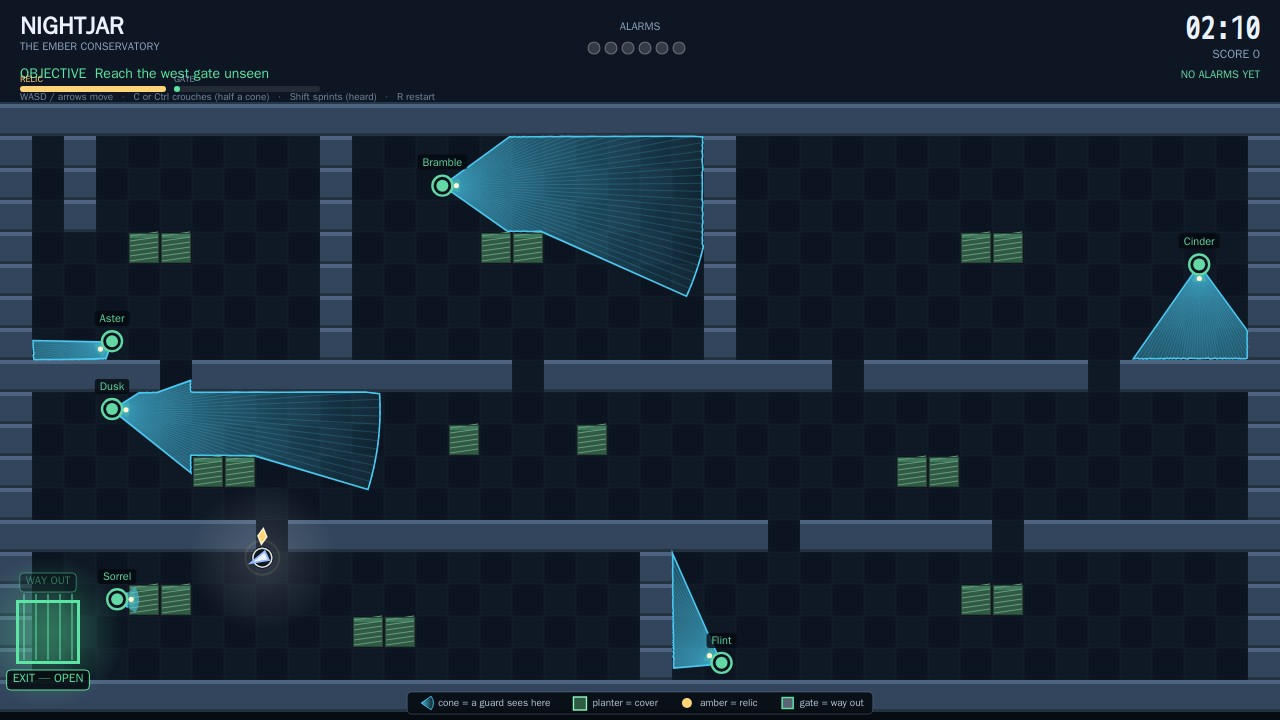
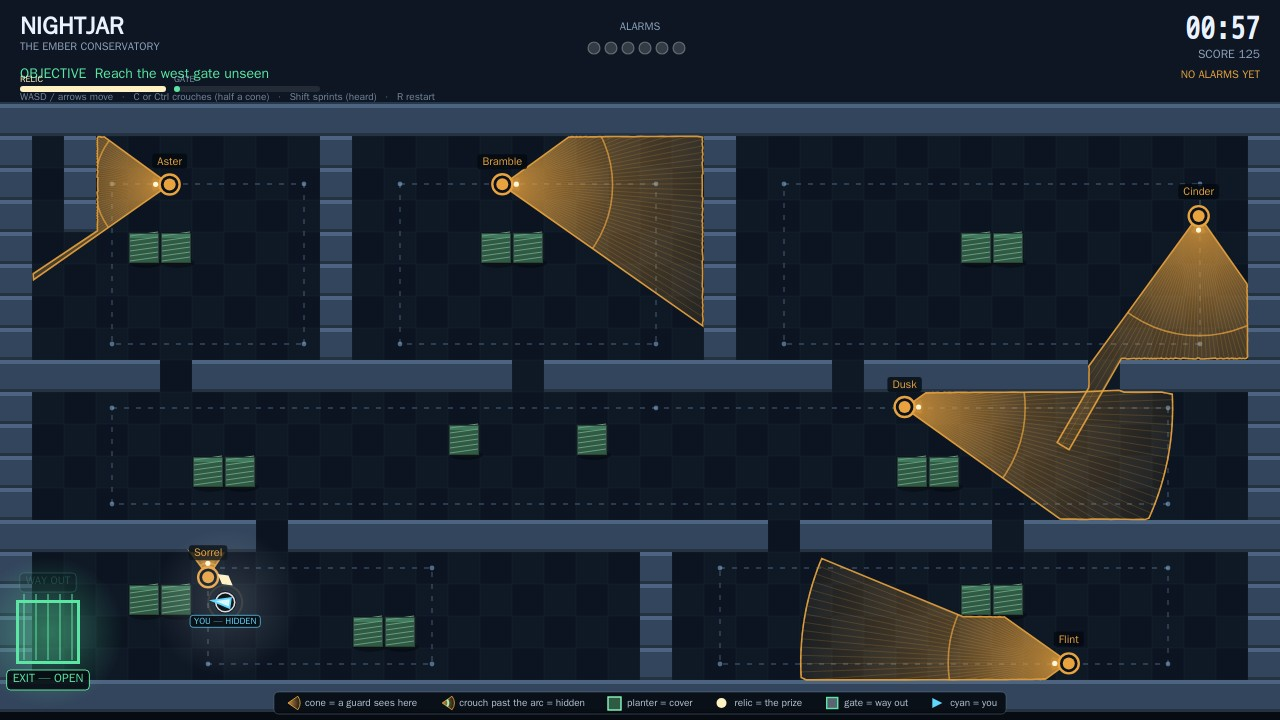
Nightjar: two-zone cones show the crouch rule, patrols on the floor, Sorrel patrols free rows

diff --git a/game/src/render.js b/game/src/render.js
@@ -63,6 +63,12 @@ function drawMap(ctx, world) {
   for (const c of level.covers) {
     const x = c.col * TILE;
     const y = HUD_H + c.row * TILE;
+    // A soft contact shadow, so a planter sits ON the floor instead of floating over it. This one
+    // line is most of the difference between "flat tile map" and "a room seen from above".
+    ctx.fillStyle = 'rgba(0,0,0,0.34)';
+    ctx.beginPath();
+    ctx.ellipse(x + TILE / 2 + 2, y + TILE - 1, TILE * 0.52, 5, 0, 0, Math.PI * 2);
+    ctx.fill();
     ctx.fillStyle = PALETTE.cover;
     ctx.fillRect(x + 1, y + 1, TILE - 2, TILE - 2);
     ctx.fillStyle = PALETTE.coverTop;
@@ -165,11 +171,9 @@ function drawExit(ctx, world) {
   // The gate's caption states the rule, not just the state: a locked exit that never says why reads
   // as scenery, and the judge's first criterion is an exit to reach unseen.
   plateLabel(ctx, open ? 'EXIT — OPEN' : 'EXIT — SEALED', x, y + EXIT.height / 2 + 18, colour, 12);
-  if (!open) {
-    // The rule is stated on a second line rather than in one long label, so the plate stays on screen
-    // at the map's west edge instead of running off it.
-    plateLabel(ctx, 'OPENS WITH THE RELIC', x, y - EXIT.height / 2 - 16, PALETTE.relic, 10);
-  }
+  // The locking rule lives in the HUD objective line, not in a floating plate: a second label above
+  // the gate ran into a guard's name plate at the map's west edge, and two overlapping captions
+  // read as a bug. One plate per object, one place for rules.
   if (open) {
     // A direction arrow so the way out is never hunted for after the pickup.
     const pulse2 = 0.55 + 0.45 * Math.sin(world.time * 5);
@@ -273,6 +277,35 @@ function drawCone(ctx, world, guard) {
   for (const [px, py] of points) ctx.lineTo(px, py);
   ctx.closePath();
   ctx.fill();
+
+  // The cone has two zones, and the rule that separates them is the one a player most needs to see:
+  // inside the near arc a crouch does not save you, beyond it a crouch does. Drawing only one flat
+  // beam made the game look broken whenever the thief was labelled hidden while standing in light,
+  // so the near arc gets a bright rim and the far zone a dimmed wash: the safe half is visibly safer.
+  const near = Math.max(12, Math.min(range, longest) * 0.45);
+  ctx.save();
+  ctx.beginPath();
+  ctx.moveTo(guard.x, guard.y);
+  for (const [px, py] of points) ctx.lineTo(px, py);
+  ctx.closePath();
+  ctx.clip();
+  // Light the near zone from the guard outward, so the half of the beam a crouch cannot cross reads
+  // as the dangerous half. Painting inside the clipped silhouette (rather than as its own annulus)
+  // keeps every edge on the wall the cone actually stops at, and scales with a short cone too.
+  const inner = ctx.createRadialGradient(guard.x, guard.y, 2, guard.x, guard.y, near);
+  inner.addColorStop(0, `${colour}55`);
+  inner.addColorStop(1, `${colour}00`);
+  ctx.fillStyle = inner;
+  ctx.beginPath();
+  ctx.arc(guard.x, guard.y, near, 0, Math.PI * 2);
+  ctx.fill();
+  // The near arc itself: the line a crouch cannot cross.
+  ctx.beginPath();
+  ctx.arc(guard.x, guard.y, near, 0, Math.PI * 2);
+  ctx.strokeStyle = `${colour}b8`;
+  ctx.lineWidth = 1.6;
+  ctx.stroke();
+  ctx.restore();
 
   // Fine radial striations, so the shape reads as a beam of light rather than a flat polygon.
   ctx.save();
@@ -553,7 +586,7 @@ function drawHud(ctx, world) {
   ctx.fillStyle = world.player.hasRelic ? PALETTE.exitOpen : PALETTE.relic;
   const objective = world.player.hasRelic
     ? 'OBJECTIVE  Reach the west gate unseen'
-    : 'OBJECTIVE  Take the Ember Relic from the gallery';
+    : 'OBJECTIVE  Take the Ember Relic — the gate is sealed until you hold it';
   ctx.fillText(objective, 20, 78);
 
   // Objective progress, as two named stages so the bar can never be read as "finished".
@@ -695,6 +728,7 @@ function drawOverlay(ctx, world) {
 function drawFieldNotes(ctx) {
   const items = [
     ['cone = a guard sees here', PALETTE.cone, 'cone'],
+    ['crouch past the arc = hidden', PALETTE.coverSafe, 'arc'],
     ['planter = cover', PALETTE.coverSafe, 'cover'],
     ['relic = the prize', PALETTE.relic, 'dot'],
     ['gate = way out', PALETTE.exitOpen, 'gate'],
@@ -735,6 +769,25 @@ function drawFieldNotes(ctx) {
       ctx.strokeStyle = `${colour}dd`;
       ctx.lineWidth = 1;
       ctx.stroke();
+    } else if (kind === 'arc') {
+      // A small cone with the near arc drawn across it: the legend shows the same rule the map does.
+      const g = ctx.createRadialGradient(x + 2, cy, 1, x + 2, cy, 12);
+      g.addColorStop(0, `${PALETTE.cone}cc`);
+      g.addColorStop(1, `${PALETTE.cone}18`);
+      ctx.fillStyle = g;
+      ctx.beginPath();
+      ctx.moveTo(x + 2, cy);
+      ctx.arc(x + 2, cy, 12, -0.6, 0.6);
+      ctx.closePath();
+      ctx.fill();
+      ctx.strokeStyle = `${PALETTE.cone}dd`;
+      ctx.lineWidth = 1;
+      ctx.stroke();
+      ctx.beginPath();
+      ctx.arc(x + 2, cy, 6, -0.6, 0.6);
+      ctx.strokeStyle = colour;
+      ctx.lineWidth = 2;
+      ctx.stroke();
     } else if (kind === 'cover') {
       ctx.fillStyle = PALETTE.cover;
       ctx.fillRect(x, cy - 6, 13, 13);
@@ -769,6 +822,35 @@ function drawFieldNotes(ctx) {
 }
 
 /**
+ * The patrol lines, drawn only in a staged screenshot. A still frame of a stealth level can show the
+ * cone a guard has now but not the route it walks, and the route is what a player learns: the beat,
+ * the turn, the place the cone will be in two seconds. Dashed, faint, and under the cones, so it
+ * reads as a plan laid on the floor rather than as a wall or a sightline.
+ */
+function drawPatrols(ctx, world) {
+  ctx.save();
+  ctx.setLineDash([5, 7]);
+  ctx.lineWidth = 1.4;
+  ctx.strokeStyle = 'rgba(150,190,235,0.30)';
+  for (const guard of world.guards) {
+    if (!guard.path || guard.path.length < 2) continue;
+    ctx.beginPath();
+    ctx.moveTo(guard.path[0].x, guard.path[0].y);
+    for (let i = 1; i < guard.path.length; i += 1) ctx.lineTo(guard.path[i].x, guard.path[i].y);
+    ctx.closePath();
+    ctx.stroke();
+    // A pip at each waypoint, so a judge counts the corners and sees the shape is a closed beat.
+    for (const p of guard.path) {
+      ctx.beginPath();
+      ctx.arc(p.x, p.y, 2.4, 0, Math.PI * 2);
+      ctx.fillStyle = 'rgba(150,190,235,0.5)';
+      ctx.fill();
+    }
+  }
+  ctx.restore();
+}
+
+/**
  * Draw a whole frame. `view` is the logical 1280x720 area; the caller has already scaled the
  * canvas so that area fills the window.
  */
@@ -776,6 +858,7 @@ export function render(ctx, world) {
   ctx.save();
   ctx.clearRect(0, 0, FIELD.width, FIELD.height);
   drawMap(ctx, world);
+  if (world.shot) drawPatrols(ctx, world);
   if (world.screen !== SCREEN_TITLE) drawExit(ctx, world);
   drawRelic(ctx, world);
   for (const guard of world.guards) drawCone(ctx, world, guard);

diff --git a/game/src/shots.js b/game/src/shots.js
@@ -9,7 +9,7 @@ import { lineOfSight } from './guard.js';
 import { opaqueAt, tileOf } from './level.js';
 import { begin, reset, step } from './world.js';
 
-export const SCENES = ['title', 'relic', 'escape', 'chase'];
+export const SCENES = ['title', 'relic', 'cover', 'escape', 'chase'];
 
 /** Which scene this page was opened for, or null for a live game. */
 export function shotName() {
@@ -167,6 +167,27 @@ export function stageShot(name, world) {
       },
       () => held,
       8,
+    );
+    world.player.crouched = true;
+    return { screen: 'play' };
+  }
+
+  if (name === 'cover') {
+    // Park the thief behind the planter that Sorrel's patrol sweeps past, and hold until the cone is
+    // actually on the planter. The frame then shows the mechanic the whole game rests on: the cone
+    // stops at the planter, and the thief stands in its shadow, unseen.
+    const hide = { x: 6 * TILE + TILE / 2, y: MAP.top + 15 * TILE + TILE / 2 };
+    play(world, (w) => Math.hypot(w.player.x - hide.x, w.player.y - hide.y) < 20, () => hide, 150);
+    world.player.crouched = true;
+    play(
+      world,
+      (w) => {
+        const sorrel = w.guards.find((g) => g.name === 'Sorrel');
+        if (!sorrel) return true;
+        return Math.hypot(sorrel.x - w.player.x, sorrel.y - w.player.y) < 210 && Math.abs(sorrel.facing) < 0.9;
+      },
+      () => hide,
+      14,
     );
     world.player.crouched = true;
     return { screen: 'play' };

diff --git a/game/src/level.js b/game/src/level.js
@@ -71,11 +71,12 @@ const ROUTES = [
     id: 'g5',
     name: 'Sorrel',
     post: 'the potting shed',
-    // A long horizontal beat down the potting shed with a single-tile return, rather than a
-    // rectangle: the shed is only four tiles tall, so a tall loop would spend most of its time
-    // facing into the south wall with a cone clipped to nothing. This loop keeps its cone long.
-    points: [{ x: 3, y: 15 }, { x: 13, y: 15 }, { x: 13, y: 16 }, { x: 3, y: 16 }],
-    dwell: [1.0, 0.9, 1.0, 0.9],
+    // The shed's east half only: rows 15 and 16 both carry planters, and a guard that walked those
+    // would wedge on the cover and never patrol at all. The legs stay on the free rows 14 and 17, and
+    // they stop short of the gate at column 3 so the last stretch before the way out keeps a timing
+    // gap: a patrol with no gap is not a puzzle, it is a wall.
+    points: [{ x: 6, y: 14 }, { x: 13, y: 14 }, { x: 13, y: 17 }, { x: 6, y: 17 }],
+    dwell: [1.2, 1.0, 1.2, 1.0],
   },
   {
     id: 'g6',

diff --git a/game/src/main.js b/game/src/main.js
@@ -36,6 +36,10 @@ function announce(text) {
 
 /** Draw one frame of a screenshot scene: the real renderer over the real world state. */
 if (scene !== null) {
+  // Mark the frame as staged before it is played, so the renderer can lay the patrol plan on the
+  // floor: a screenshot should show what a player learns over a run, not only what is under a cone
+  // in the instant it was taken.
+  world.shot = scene;
   const result = stageShot(scene, world);
   if (result && result.screen) world.screen = result.screen;
   render(ctx, world);
